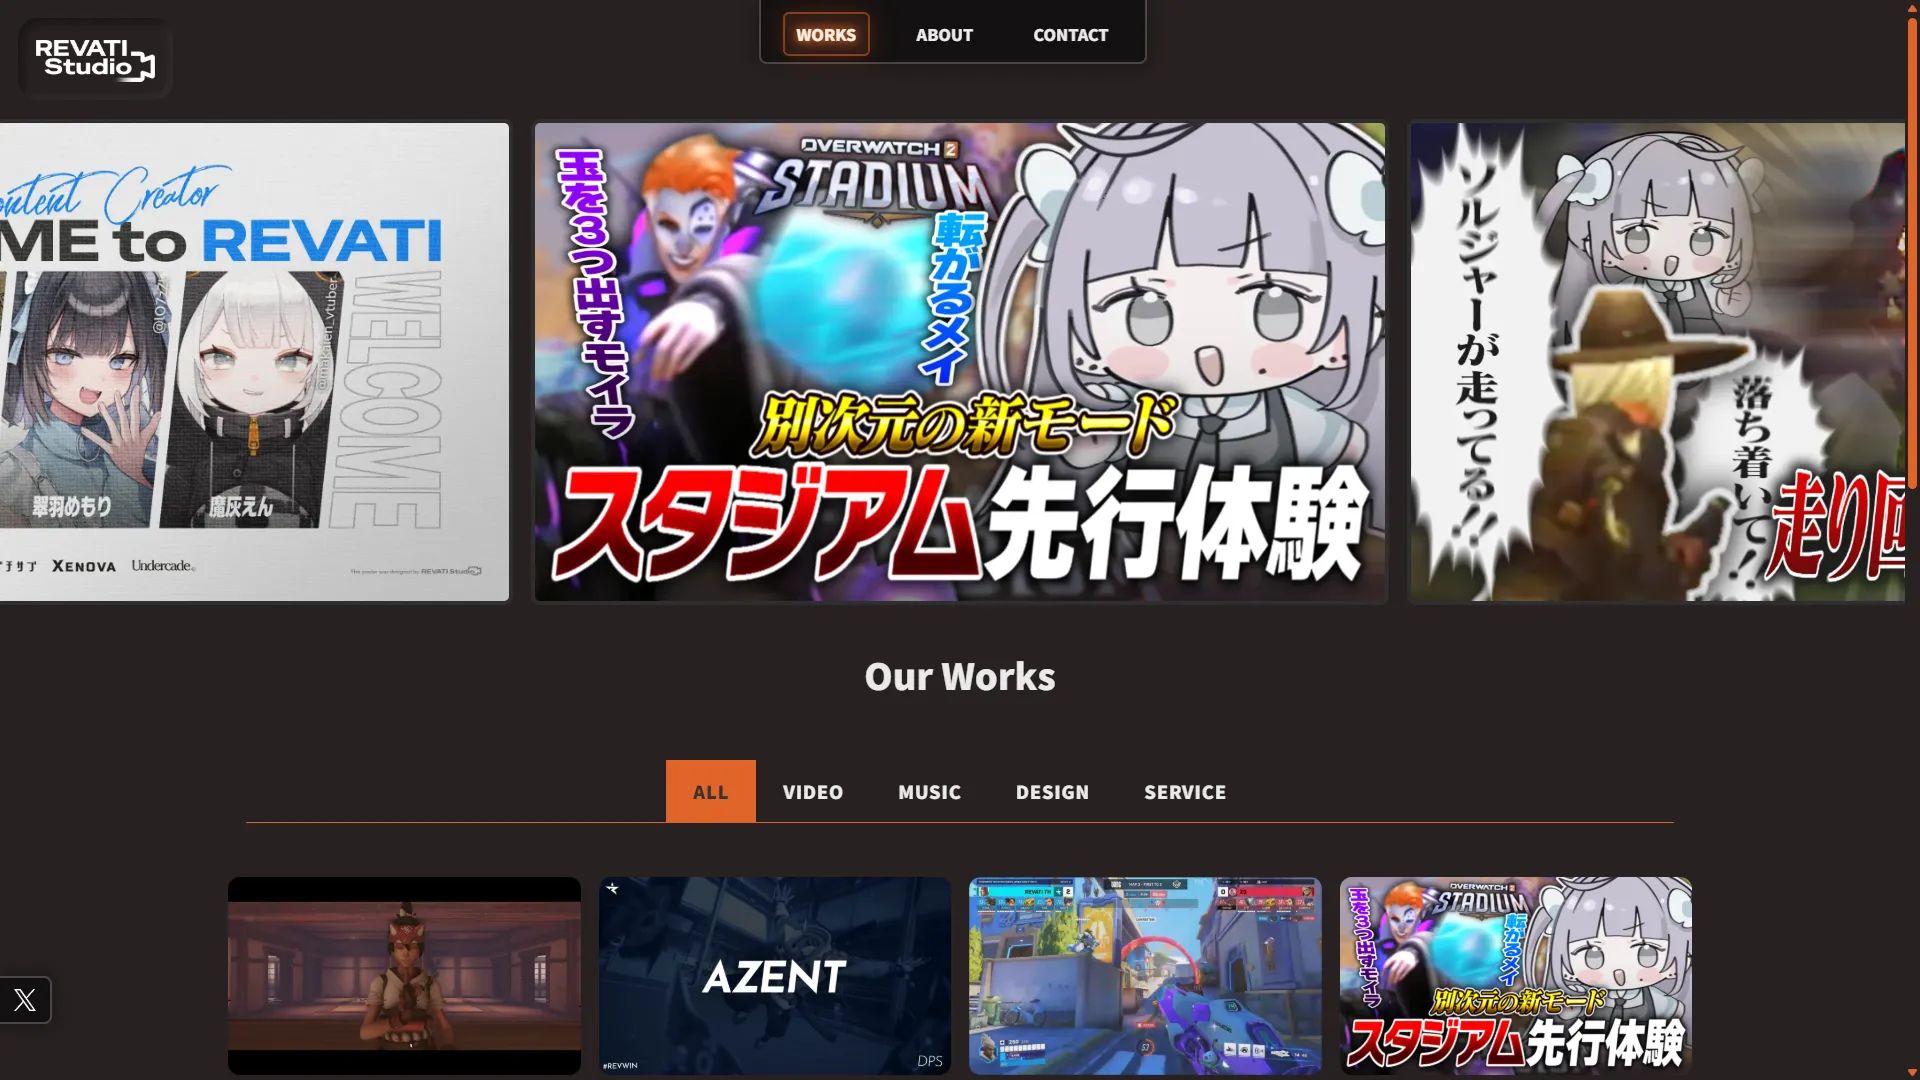
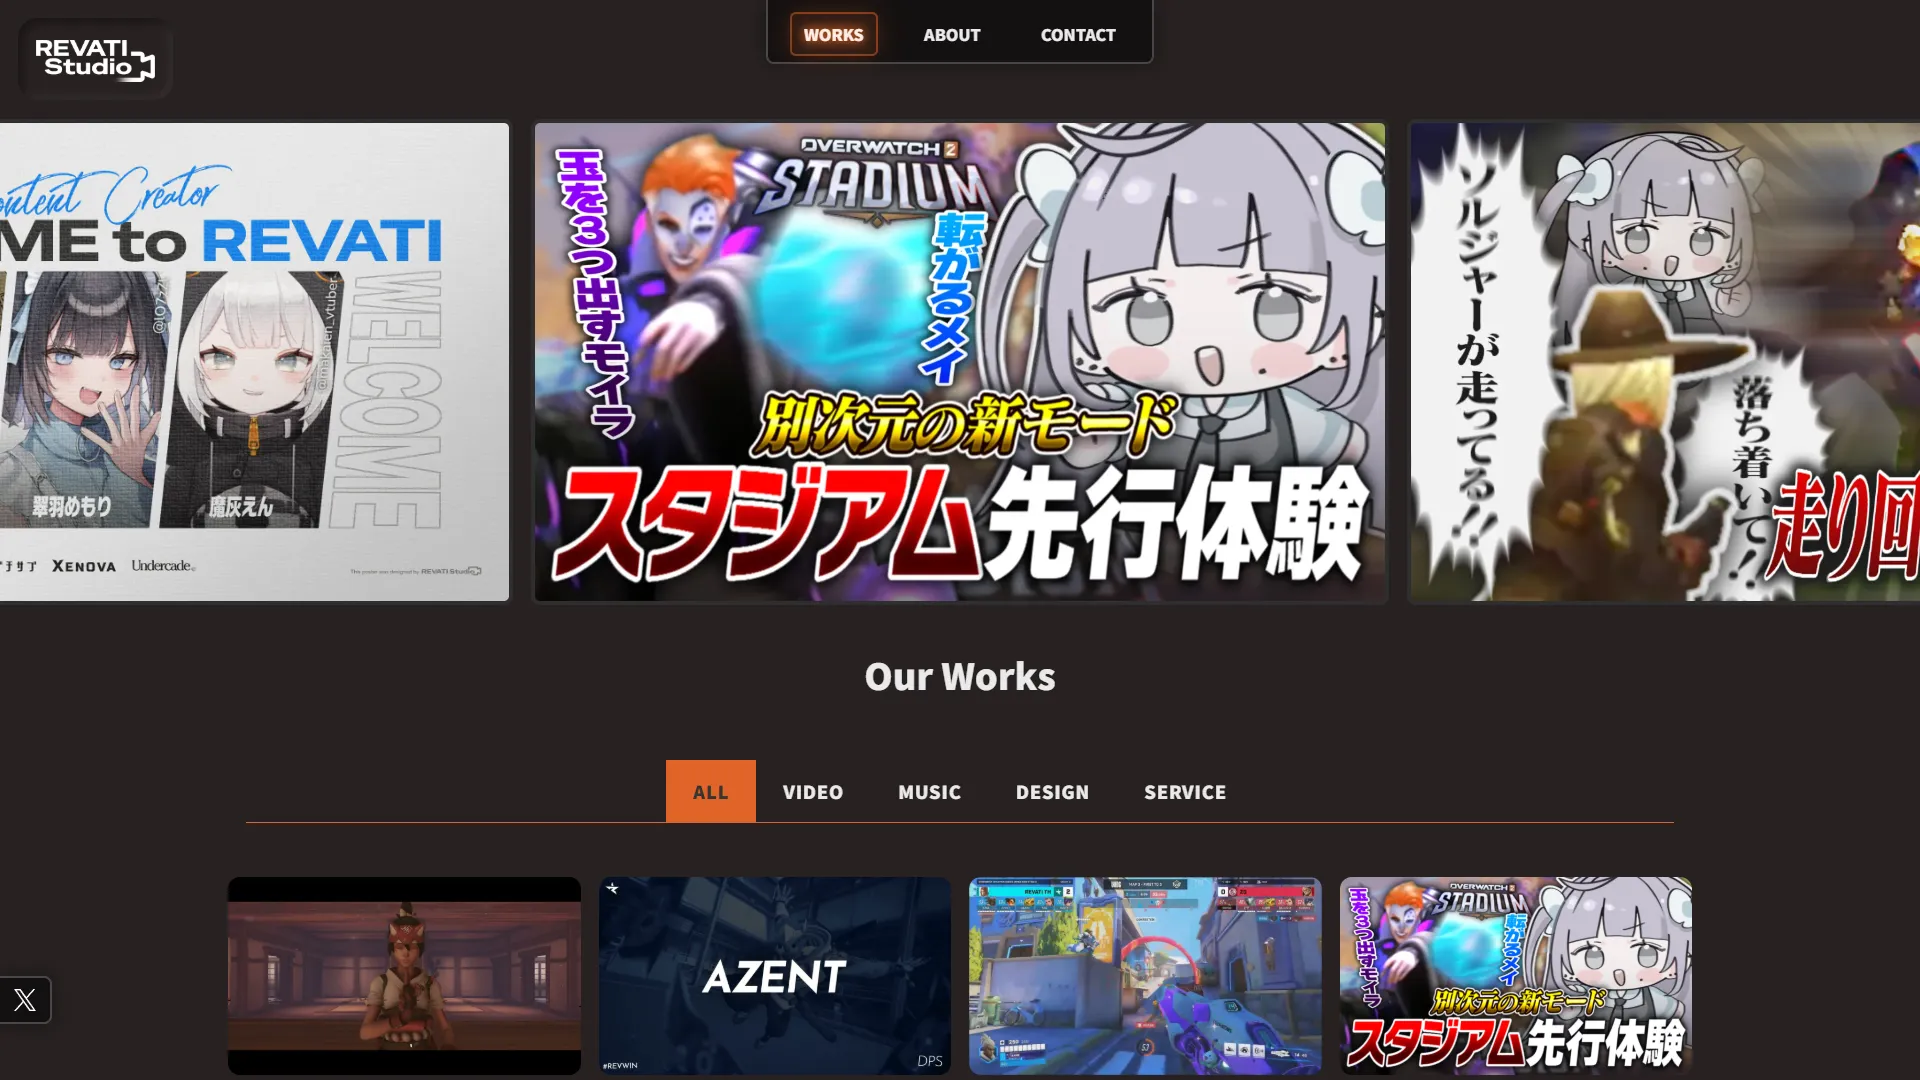
improve(works): studio.revati.jpのサムネイル表示を改善

Changed region(s): [[0.9688, 0.0, 1.0, 0.55], [0.4062, 0.0, 0.5, 0.0611], [0.5312, 0.0306, 0.5625, 0.0611]]

diff --git a/src/components/works/WorkCard.svelte b/src/components/works/WorkCard.svelte
@@ -90,7 +90,7 @@
 	}
 </script>
 
-<button class="work-card" onclick={handleClick}>
+<button class="work-card" onclick={handleClick} style={work.border ? `border: ${work.border}` : ''}>
 	<div class="work-image">
 		{#if thumbnailInfo.isIcon}
 			<div 
@@ -135,6 +135,7 @@
 		padding: 0;
 		background: none;
 		border: none;
+		box-sizing: border-box;
 
 		&:hover,
 		&:focus {

diff --git a/src/types/work.ts b/src/types/work.ts
@@ -19,6 +19,7 @@ export interface Work {
   assets: Asset[];
   // ここで定義されない場合、assetsの最初の要素のサムネイルを使用する
   thumbnail?: Image;
+  border?: string;
 }
 
 export type Asset =

diff --git a/src/data/work/service.ts b/src/data/work/service.ts
@@ -37,6 +37,7 @@ export const SERVICE = [
         clientName: "REVATI Studio",
         thumbnail: revatiStudio,
       },
-    ]
+    ],
+    border: "3px solid #494040ff",
   }
 ] satisfies Work[];
